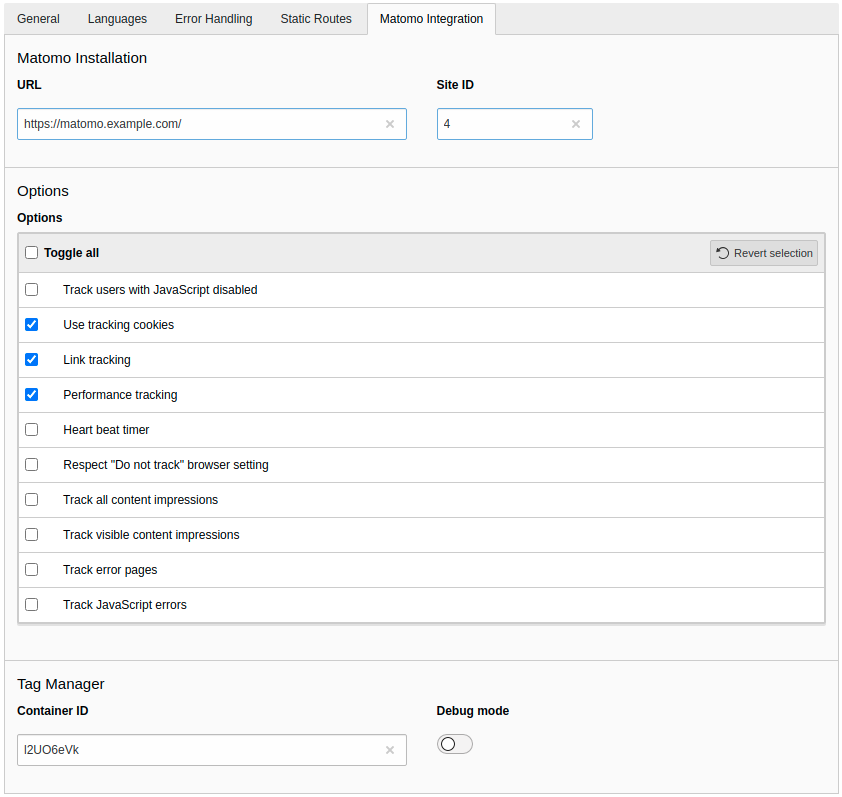
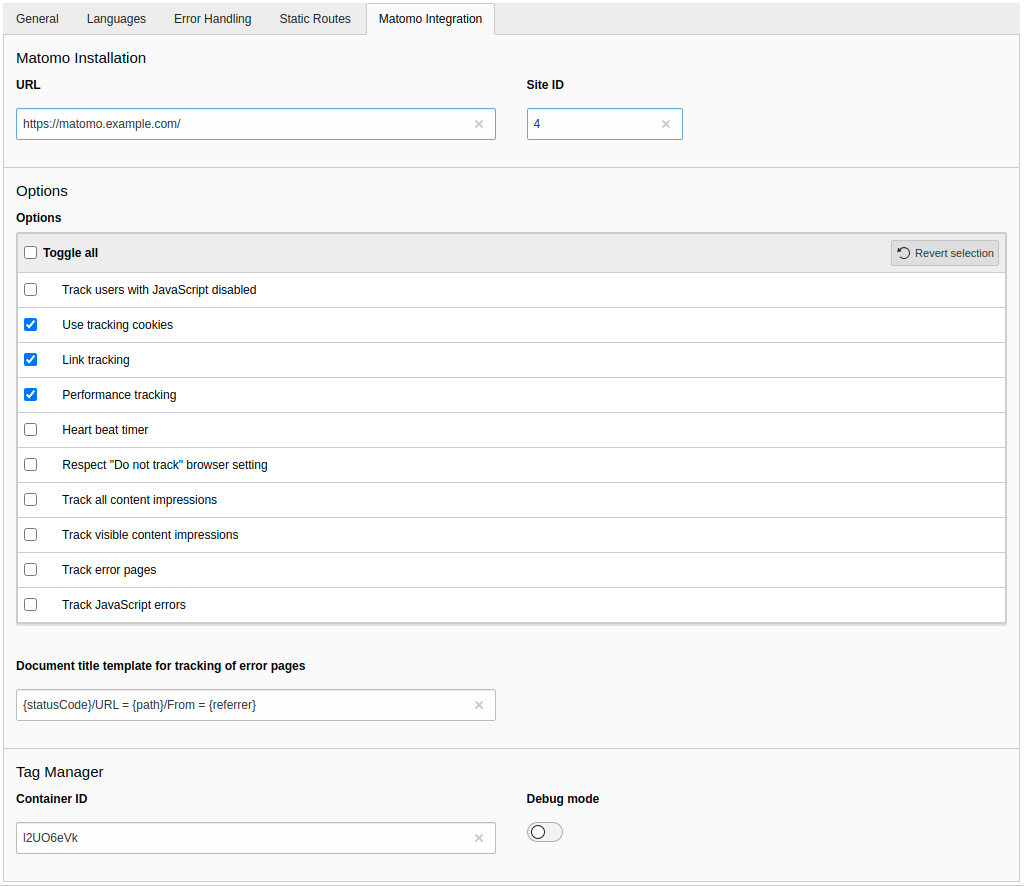
[TASK] Add field to customise error pages template
Related: #1

diff --git a/Tests/Unit/EventListener/TrackErrorPagesTest.php b/Tests/Unit/EventListener/TrackErrorPagesTest.php
@@ -166,7 +166,7 @@ final class TrackErrorPagesTest extends TestCase
         $actual = $event->getMatomoMethodCalls();
         self::assertCount(1, $actual);
         self::assertSame(
-            '_paq.push(["setDocumentTitle","404/URL = "+encodeURIComponent(document.location.pathname+document.location.search)+"/From = "+encodeURIComponent(document.referrer)]);',
+            '_paq.push(["setDocumentTitle","404/URL = "+encodeURIComponent(document.location.pathname+document.location.search)+"/From = "+encodeURIComponent(document.referrer)+""]);',
             (string)$actual[0]
         );
     }
@@ -215,7 +215,99 @@ final class TrackErrorPagesTest extends TestCase
         $actual = $event->getMatomoMethodCalls();
         self::assertCount(1, $actual);
         self::assertSame(
-            '_paq.push(["setDocumentTitle","403/URL = "+encodeURIComponent(document.location.pathname+document.location.search)+"/From = "+encodeURIComponent(document.referrer)]);',
+            '_paq.push(["setDocumentTitle","403/URL = "+encodeURIComponent(document.location.pathname+document.location.search)+"/From = "+encodeURIComponent(document.referrer)+""]);',
+            (string)$actual[0]
+        );
+    }
+
+    /**
+     * @test
+     */
+    public function enabledOptionWithErrorHandlingDefinedAndPageIdDoesMatchWithEmptyErrorPagesTemplateUsesDefaultTemplate(): void
+    {
+        $this->siteStub
+            ->method('getConfiguration')
+            ->willReturn([
+                'errorHandling' => [[
+                    'errorCode' => 404,
+                    'errorHandler' => 'Page',
+                    'errorContentSource' => 't3://page?uid=42',
+                ]]
+            ]);
+
+        $this->pageArgumentsStub
+            ->method('getPageId')
+            ->willReturn(42);
+
+        $map = [
+            ['site', null, $this->siteStub],
+            ['routing', null, $this->pageArgumentsStub],
+        ];
+
+        $this->requestStub
+            ->method('getAttribute')
+            ->willReturnMap($map);
+
+        $configuration = Configuration::createFromSiteConfiguration([
+            'matomoIntegrationUrl' => 'https://www.example.net/',
+            'matomoIntegrationSiteId' => 123,
+            'matomoIntegrationOptions' => 'trackErrorPages',
+            'matomoIntegrationErrorPagesTemplate' => '',
+        ]);
+
+        $event = new BeforeTrackPageViewEvent($configuration);
+        $this->subject->__invoke($event);
+
+        $actual = $event->getMatomoMethodCalls();
+        self::assertCount(1, $actual);
+        self::assertSame(
+            '_paq.push(["setDocumentTitle","404/URL = "+encodeURIComponent(document.location.pathname+document.location.search)+"/From = "+encodeURIComponent(document.referrer)+""]);',
+            (string)$actual[0]
+        );
+    }
+
+    /**
+     * @test
+     */
+    public function enabledOptionWithErrorHandlingDefinedAndPageIdDoesMatchAndCustomTemplateDefined(): void
+    {
+        $this->siteStub
+            ->method('getConfiguration')
+            ->willReturn([
+                'errorHandling' => [[
+                    'errorCode' => 404,
+                    'errorHandler' => 'Page',
+                    'errorContentSource' => 't3://page?uid=42',
+                ]]
+            ]);
+
+        $this->pageArgumentsStub
+            ->method('getPageId')
+            ->willReturn(42);
+
+        $map = [
+            ['site', null, $this->siteStub],
+            ['routing', null, $this->pageArgumentsStub],
+        ];
+
+        $this->requestStub
+            ->method('getAttribute')
+            ->willReturnMap($map);
+
+        $configuration = Configuration::createFromSiteConfiguration([
+            'matomoIntegrationUrl' => 'https://www.example.net/',
+            'matomoIntegrationSiteId' => 123,
+            'matomoIntegrationOptions' => 'trackErrorPages',
+            'matomoIntegrationErrorPagesTemplate' => '--{statusCode} | "{path}" | {referrer}--',
+        ]);
+
+        $event = new BeforeTrackPageViewEvent($configuration);
+        $this->subject->__invoke($event);
+
+        $actual = $event->getMatomoMethodCalls();
+        self::assertCount(1, $actual);
+        self::assertSame(
+            '_paq.push(["setDocumentTitle","--404 | \""+encodeURIComponent(document.location.pathname+document.location.search)+"\" | "+encodeURIComponent(document.referrer)+"--"]);',
             (string)$actual[0]
         );
     }

diff --git a/Classes/EventListener/TrackErrorPages.php b/Classes/EventListener/TrackErrorPages.php
@@ -13,6 +13,7 @@ namespace Brotkrueml\MatomoIntegration\EventListener;
 
 use Brotkrueml\MatomoIntegration\Code\JavaScriptCode;
 use Brotkrueml\MatomoIntegration\Event\BeforeTrackPageViewEvent;
+use Brotkrueml\MatomoIntegration\Extension;
 use Psr\Http\Message\ServerRequestInterface;
 
 /**
@@ -50,14 +51,21 @@ final class TrackErrorPages
             return;
         }
 
-        $event->addMatomoMethodCall(
-            'setDocumentTitle',
-            new JavaScriptCode(
-                \sprintf(
-                    '"%d/URL = "+encodeURIComponent(document.location.pathname+document.location.search)+"/From = "+encodeURIComponent(document.referrer)',
-                    $errorHandlerForPage[0]['errorCode']
-                )
+        $template = $event->getConfiguration()->errorPagesTemplate ?: Extension::DEFAULT_TEMPLATE_ERROR_PAGES;
+        $templateVariables = [
+            '{statusCode}' => (int)$errorHandlerForPage[0]['errorCode'],
+            '{path}' => '"+encodeURIComponent(document.location.pathname+document.location.search)+"',
+            '{referrer}' => '"+encodeURIComponent(document.referrer)+"',
+        ];
+        $code = \sprintf(
+            '"%s"',
+            \str_replace(
+                \array_keys($templateVariables),
+                \array_values($templateVariables),
+                \addcslashes($template, '"')
             )
         );
+
+        $event->addMatomoMethodCall('setDocumentTitle', new JavaScriptCode($code));
     }
 }

diff --git a/Configuration/SiteConfiguration/Overrides/sites.php b/Configuration/SiteConfiguration/Overrides/sites.php
@@ -73,6 +73,14 @@ $GLOBALS['SiteConfiguration']['site']['columns'] += [
             'default' => 'cookieTracking,linkTracking,performanceTracking',
         ],
     ],
+    'matomoIntegrationErrorPagesTemplate' => [
+        'label' => Brotkrueml\MatomoIntegration\Extension::LANGUAGE_PATH_SITECONF . ':errorPagesTemplate',
+        'config' => [
+            'type' => 'input',
+            'eval' => 'trim',
+            'default' => Brotkrueml\MatomoIntegration\Extension::DEFAULT_TEMPLATE_ERROR_PAGES,
+        ],
+    ],
     'matomoIntegrationTagManagerContainerId' => [
         'label' => Brotkrueml\MatomoIntegration\Extension::LANGUAGE_PATH_SITECONF . ':tagManagerContainerId',
         'config' => [
@@ -105,7 +113,7 @@ $GLOBALS['SiteConfiguration']['site']['palettes'] += [
     ],
     'matomoIntegrationOptions' => [
         'label' => Brotkrueml\MatomoIntegration\Extension::LANGUAGE_PATH_SITECONF . ':options',
-        'showitem' => 'matomoIntegrationOptions',
+        'showitem' => 'matomoIntegrationOptions, --linebreak--, matomoIntegrationErrorPagesTemplate',
     ],
     'matomoIntegrationTagManager' => [
         'label' => Brotkrueml\MatomoIntegration\Extension::LANGUAGE_PATH_SITECONF . ':tagManager',

diff --git a/Tests/Unit/Entity/ConfigurationTest.php b/Tests/Unit/Entity/ConfigurationTest.php
@@ -27,6 +27,7 @@ final class ConfigurationTest extends TestCase
         self::assertSame(0, $subject->siteId);
         self::assertFalse($subject->noScript);
         self::assertFalse($subject->cookieTracking);
+        self::assertSame('', $subject->errorPagesTemplate);
         self::assertFalse($subject->heartBeatTimer);
         self::assertFalse($subject->linkTracking);
         self::assertFalse($subject->performanceTracking);
@@ -181,6 +182,18 @@ final class ConfigurationTest extends TestCase
         ]);
 
         self::assertTrue($subject->trackErrorPages);
+    }
+
+    /**
+     * @test
+     */
+    public function createFromSiteConfigurationWithErrorPagesTemplateSetsInstanceValueCorrectly(): void
+    {
+        $subject = Configuration::createFromSiteConfiguration([
+            'matomoIntegrationErrorPagesTemplate' => 'Some template',
+        ]);
+
+        self::assertSame('Some template', $subject->errorPagesTemplate);
     }
 
     /**

diff --git a/Classes/Extension.php b/Classes/Extension.php
@@ -11,10 +11,15 @@ declare(strict_types=1);
 
 namespace Brotkrueml\MatomoIntegration;
 
-class Extension
+/**
+ * @internal
+ */
+final class Extension
 {
     public const KEY = 'matomo_integration';
 
     private const LANGUAGE_PATH = 'LLL:EXT:' . self::KEY . '/Resources/Private/Language/';
     public const LANGUAGE_PATH_SITECONF = self::LANGUAGE_PATH . 'SiteConfiguration.xlf';
+
+    public const DEFAULT_TEMPLATE_ERROR_PAGES = '{statusCode}/URL = {path}/From = {referrer}';
 }

diff --git a/Classes/Entity/Configuration.php b/Classes/Entity/Configuration.php
@@ -31,6 +31,8 @@ final class Configuration
     /** @readonly */
     public bool $doNotTrack = false;
     /** @readonly */
+    public string $errorPagesTemplate = '';
+    /** @readonly */
     public bool $heartBeatTimer = false;
     /** @readonly */
     public bool $linkTracking = false;

diff --git a/Documentation/Configuration/Index.rst b/Documentation/Configuration/Index.rst
@@ -94,17 +94,21 @@ Track visible content impressions
 
    Default: *disabled*
 
+.. _site-configuration-track-error-pages:
+
 Track error pages
    If you have configured the :ref:`error handling
    <t3coreapi:sitehandling-errorHandling>` and enable this option, the document
    title will be set as described in the Matomo FAQ:
-   `How to track error pages`_.
+   `How to track error pages`_. You can customise the document title in the
+   field :ref:`"Document title template for tracking of error pages"
+   <site-configuration-error-pages-template>`
 
    Default: *disabled*
 
    .. note::
-      If you have configured multiple error status codes with the same page ID, the
-      first defined error code will be used.
+      If you have configured multiple error status codes with the same page ID,
+      the first defined error code will be used.
 
 Track JavaScript errors
    With this option enabled `JavaScript errors`_ are tracked.
@@ -115,6 +119,23 @@ Track JavaScript errors
       Only JavaScript errors that occur after the asynchronous loading and
       execution of the Matomo script will be tracked.
 
+.. _site-configuration-error-pages-template:
+
+Document title template for tracking of error pages
+   Adapt the template for the document title to your needs with the option
+   :ref:`"Track error pages" <site-configuration-track-error-pages>`
+   enabled. You can use the following variables:
+
+   :code:`{statusCode}`
+      The status code of the error (e.g. 404, 500).
+
+   :code:`{path}`
+      The path of the URL where the error occurred.
+
+   :code:`{referrer}`
+      The referrer.
+
+   Default: *{statusCode}/URL = {path}/From = {referrer}*
 
 Tag Manager
 -----------
